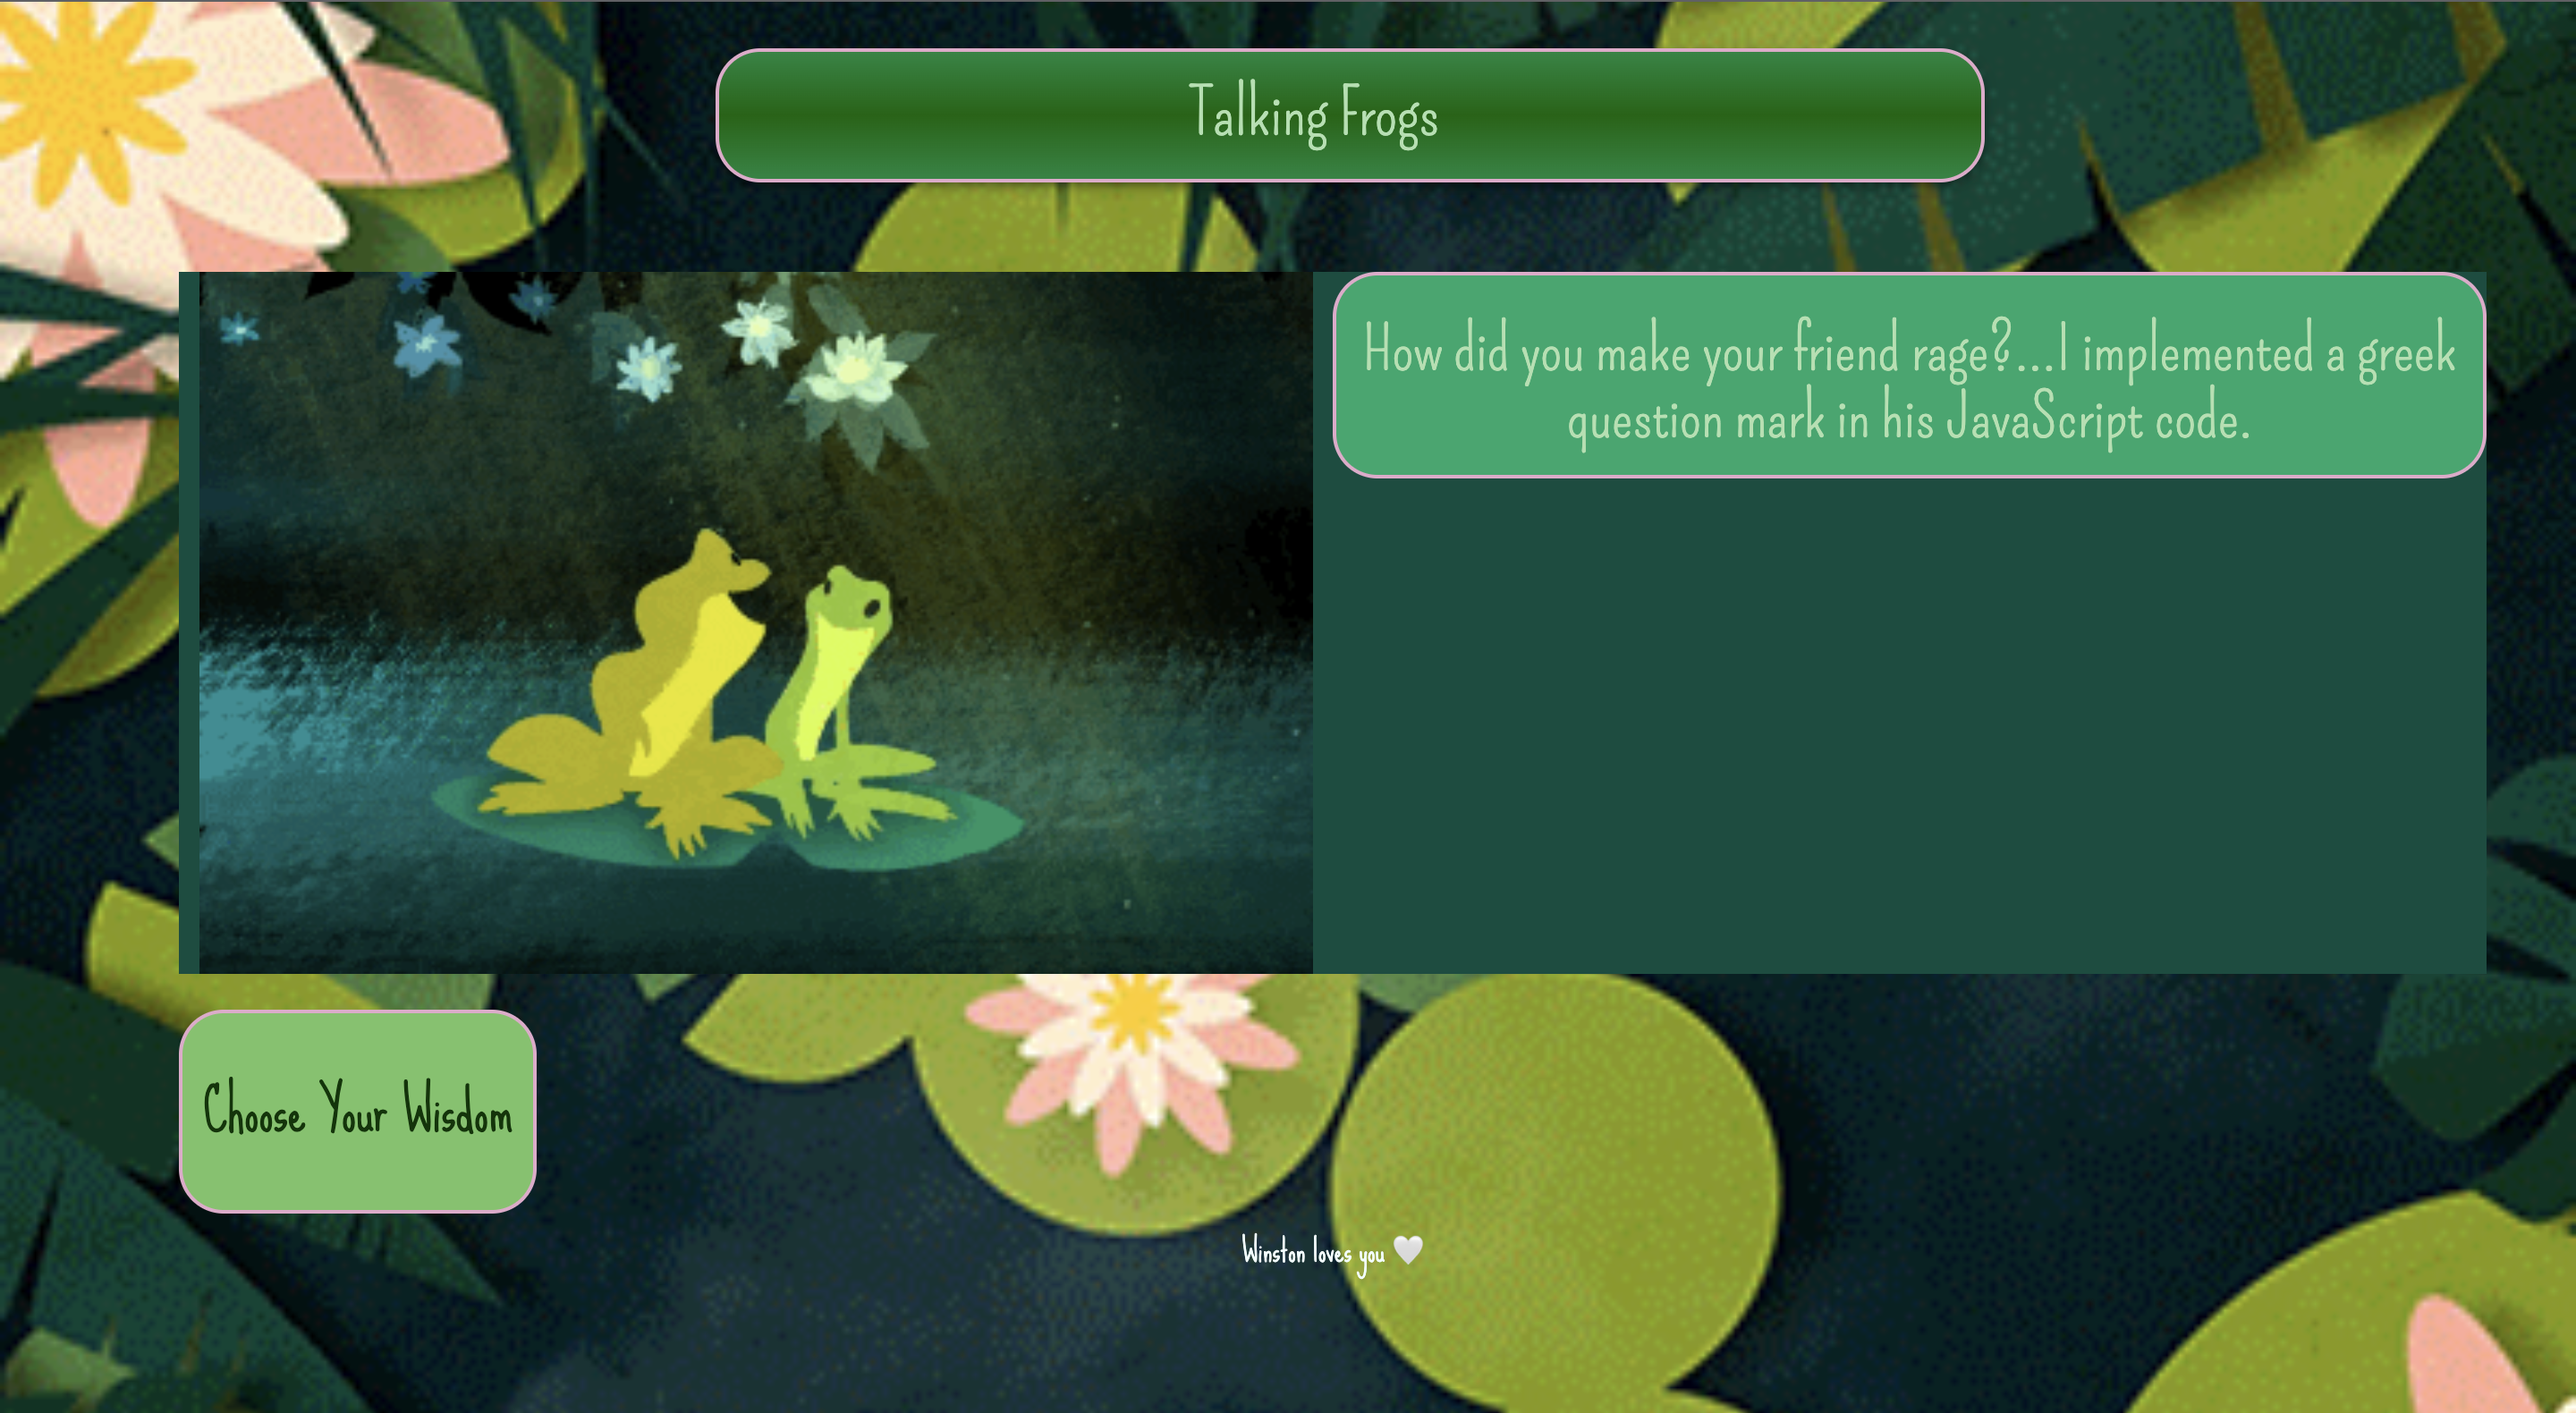
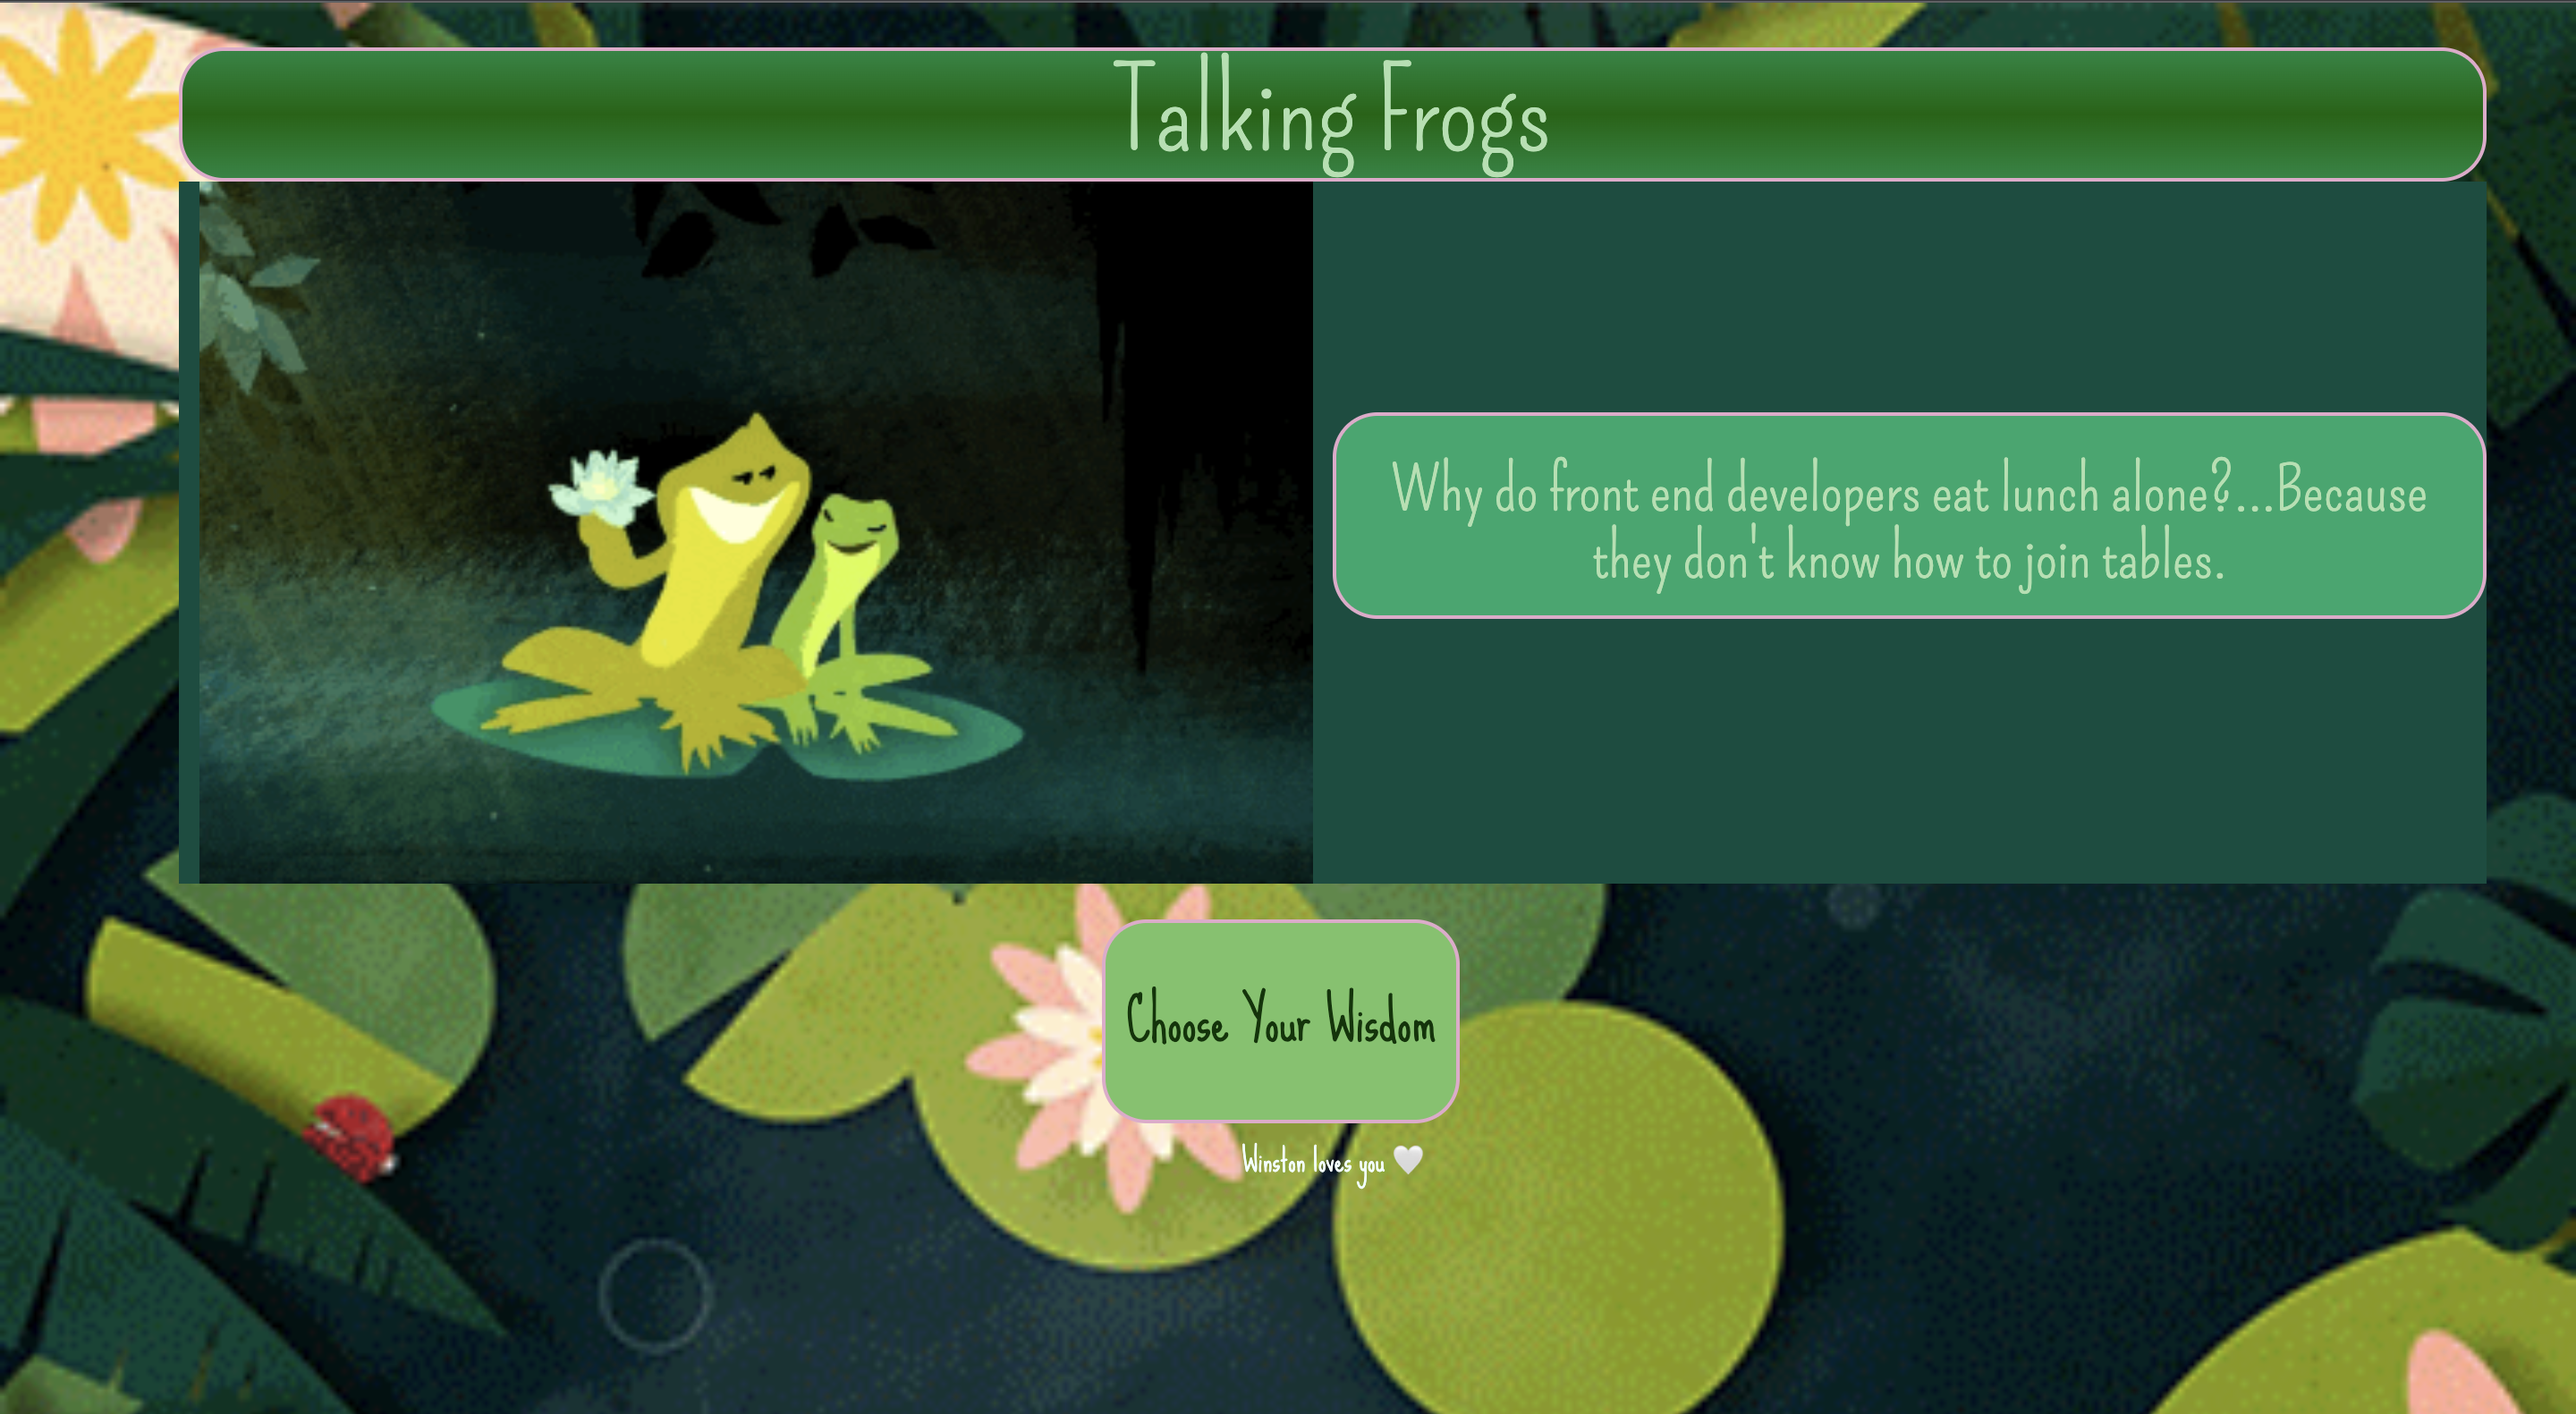
final updates

diff --git a/index.html b/index.html
@@ -11,12 +11,14 @@
   <link rel="preconnect" href="https://fonts.gstatic.com" crossorigin>
   <link href="https://fonts.googleapis.com/css2?family=Pompiere&family=Sue+Ellen+Francisco&display=swap"
     rel="stylesheet">
-  <link rel="stylesheet" href="./assets/style.css" />
+  <link rel="stylesheet" href="./assets/style.css"/>
 </head>
 
 <body>
   <header>
-    <h1 class="z-depth-2">Talking Frogs</h1>
+    <div class="Hcontainer col s12 m6 center-block">
+    <h1 class="center">Talking Frogs</h1>
+    </div>
   </header>
   <main>
     <div id="modal1" class="modal">
@@ -34,10 +36,9 @@
 
     <section class="row wrapper col s12 m6 teal darken-4">
       <div class="col s12 m6" id="gifcontainer">
-        <img id="winston-gif" />
+        <img id="winston-gif"/>
       </div>
       <section class="col s12 m6" id="selection"></section>
-      <section class="saved-wisdom"></section>
     </section>
   </main>
   <a class="modal-trigger waves-effect waves-light btn-sm" href="#modal1">Choose Your Wisdom</a>

diff --git a/assets/style.css b/assets/style.css
@@ -19,17 +19,9 @@ body {
     font-size: 1.5em;
 }
 
-header h1{
-    background:linear-gradient(#00853E,#006400,#00853E) ;
-    padding-left: 0px;
-    padding-right: 40px;
-    padding-top: 15px;
-    padding-bottom: 50px;
-    margin-top:20px;
-    margin-left: 300px;
-    margin-bottom: 50px;
+header .Hcontainer {
+    background:linear-gradient(#00853E,#006400,#00853E);
     height: 75px;
-    width: 55%;
     border-color: #e4aacb;
     border-width: 2px;
     border-radius: 25px;
@@ -38,6 +30,10 @@ header h1{
     font-size: 1.60em;
     text-align: center;
     color: #ACE1AF;
+}
+
+header h1 {
+    margin-top: 0;
 }
 
 main {
@@ -60,6 +56,7 @@ main {
     font-family: 'Sue Ellen Francisco', cursive;
     color: #033503;
     padding: 5px;
+    margin-left: 40%;
 }
 
 .modal {
@@ -106,6 +103,7 @@ main {
     border-width: 2px;
     border-style: solid;
     border-radius: 25px;
+    margin-top: 10%;
 }
 
 footer {
